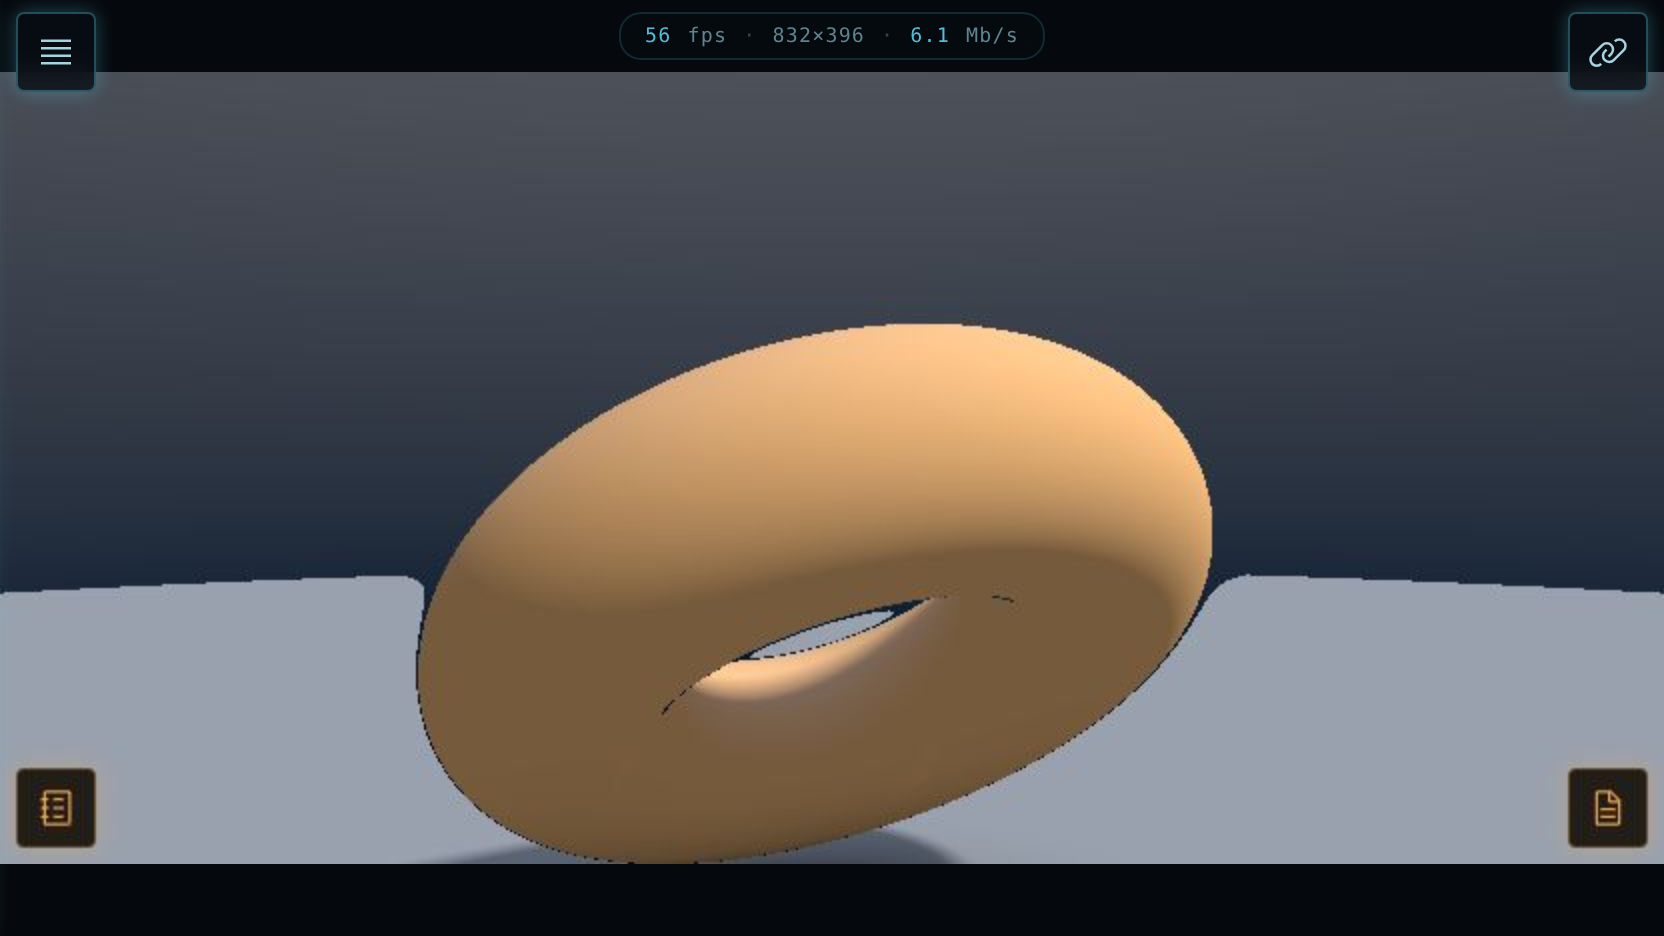
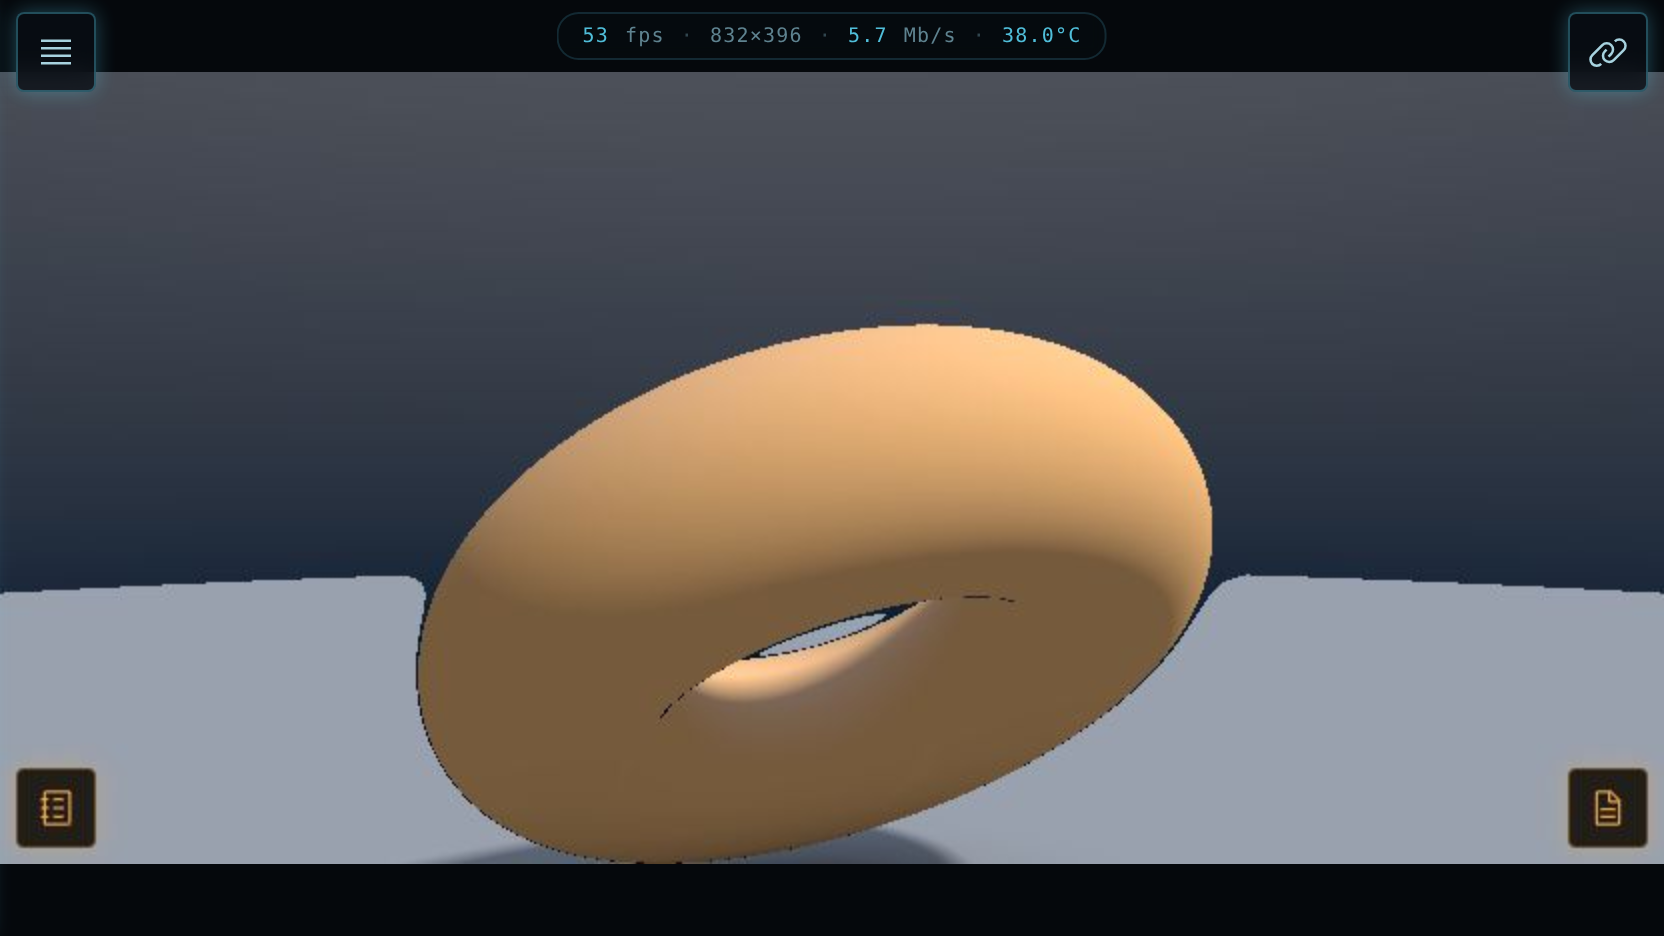
stats bar: add live device temperature (server /api/temp reads /sys; battery temp shown, amber/red as it warms; SoC also returned); refresh screenshot; README/CLAUDE/test updates
Claude-Session: https://claude.ai/code/session_0131CogPH6UBq3bRJkQkce5a

diff --git a/public/app.js b/public/app.js
@@ -393,13 +393,28 @@ function statTick(nbytes) {
     const fps = Math.round(statCount * 1000 / dt);
     const mbps = (statBytes * 8 / 1e6) / (dt / 1000);
     const el = $('stats');
-    if (el) el.innerHTML = `<span class="v">${fps}</span> fps<span class="sep"> · </span>${fw}×${fh}<span class="sep"> · </span><span class="v">${mbps.toFixed(1)}</span> Mb/s`;
+    if (el) el.innerHTML = `<span class="v">${fps}</span> fps<span class="sep"> · </span>${fw}×${fh}<span class="sep"> · </span><span class="v">${mbps.toFixed(1)}</span> Mb/s${tempHtml()}`;
     statCount = 0; statBytes = 0; statLast = now;
   }
 }
 function applyStats() { const el = $('stats'); if (el) el.classList.toggle('hidden', !showStats); const b = $('statsToggle'); if (b) { b.textContent = showStats ? 'Hide stats bar' : 'Show stats bar'; b.classList.toggle('on', showStats); } }
 $('statsToggle').onclick = () => { showStats = !showStats; try { localStorage.setItem('thorStats', showStats ? '1' : '0'); } catch {} applyStats(); };
 applyStats();
+// Device temperature (battery) via the server's /api/temp (the page can't read /sys). Colour it as it
+// climbs so thermal stress during heavy GPU work is visible at a glance. soc is fetched too (unused in
+// the bar for now — battery is "the device temperature").
+let lastTemp = { battery: null, soc: null };
+function tempHtml() {
+  const t = lastTemp.battery;
+  if (t == null) return '';
+  const colour = t >= 44 ? '#ff6b81' : t >= 40 ? '#f2a541' : 'var(--accent)';
+  return `<span class="sep"> · </span><span class="v" style="color:${colour}">${t.toFixed(1)}°C</span>`;
+}
+async function pollTemp() {
+  if (!showStats) return;
+  try { const r = await fetch('/api/temp', { cache: 'no-store' }); if (r.ok) lastTemp = await r.json(); } catch {}
+}
+pollTemp(); setInterval(pollTemp, 5000);
 
 if ('serviceWorker' in navigator) navigator.serviceWorker.register('sw.js').catch(() => {});
 layout(); syncViewport(); connect(); initErrorBaseline();

diff --git a/README.md b/README.md
@@ -8,7 +8,7 @@ A full-screen live view of the browser that Claude Code drives on an **AYN Thor*
 
 - **Shows the real browser, live.** Frames come straight from the headless Chromium that Claude controls, at the exact size and shape of your screen. Rotate the device or go full screen and the remote page reflows to match — no black bars, no scaling artifacts.
 - **Lets you take over.** Tap, drag to scroll, and type (the keyboard button opens Android's keyboard). The built-in controller works too: left stick and D-pad scroll, right stick moves a pointer, and the face and shoulder buttons tap, go back, and page up and down.
-- **Stats bar.** A thin, translucent strip centered along the top reports the live stream: frames per second, resolution, and bandwidth (e.g. `56 fps · 832×396 · 6.1 Mb/s`). It measures what you are actually seeing *through* the viewer, independent of whatever the page inside is doing. Hide it from the Controls panel.
+- **Stats bar.** A thin, translucent strip centered along the top reports the live stream: frames per second, resolution, bandwidth, and the device temperature (e.g. `53 fps · 832×396 · 5.7 Mb/s · 38.0°C`). It measures what you are actually seeing *through* the viewer, independent of whatever the page inside is doing; the temperature (battery, read server-side from `/sys`) turns amber then red as the device warms. Hide it from the Controls panel.
 - **Address bar** in the top-right corner that expands leftwards, with back and forward. Type an address or search terms; recent pages you visited are offered below and filter as you type.
 - **Tabs drawer** in the top-left corner: switch, open, and close tabs. Closing asks for confirmation first.
 - **Console panel** with the page's console output and uncaught errors, with an error badge while it is closed.

diff --git a/CLAUDE.md b/CLAUDE.md
@@ -49,6 +49,6 @@ Render path: CDP screencast (JPEG) -> agent-browser WS -> viewer. Client-side tu
 - Decode with `createImageBitmap(Blob)` (off-main-thread), not `new Image()` + data URL; previous bitmap `.close()`d each frame.
 - Canvas backing store = frame's native pixels (e.g. 832x468), CSS-scaled to fill; NOT `innerWidth*devicePixelRatio` (was ~3x the pixels on a hi-DPI screen for no quality gain). 2d context created with `{alpha:false, desynchronized:true}`.
 - Measured ~53 fps rendered on-device (tools/measure-fps.mjs animates a page and counts acks), up from the old 15 cap.
-- Persistent stats bar: a thin translucent top-center bar shows live viewer FPS · resolution · bandwidth (localStorage `thorStats`, default on; "Hide stats bar" in the controls panel). Replaced the old hidden "Show FPS" toggle.
+- Persistent stats bar: a thin translucent top-center bar shows live viewer FPS · resolution · bandwidth · device temperature (localStorage `thorStats`, default on; "Hide stats bar" in the controls panel). Temperature comes from the server route `GET /api/temp` (reads `/sys` — battery temp in the bar, SoC also returned; the page can't read /sys itself); the value is coloured amber ≥40°C, red ≥44°C. Replaced the old hidden "Show FPS" toggle.
 
 GPU is real now (updated): the remote Chromium runs `--use-angle=vulkan` (NOT `--disable-gpu`) and renders WebGL2 AND WebGPU on the actual Adreno 740 GPU via Mesa Turnip + the companion `turnip-kgsl-shim` (see that repo). Canvas Lab pieces run at 60fps through the viewer. Do NOT re-add `--disable-gpu` or the Vulkan compositing feature (the latter crash-loops/overheats the device). Daemon-wide stream quality is `AGENT_BROWSER_STREAM_QUALITY` (default 80) if gradients need it.
